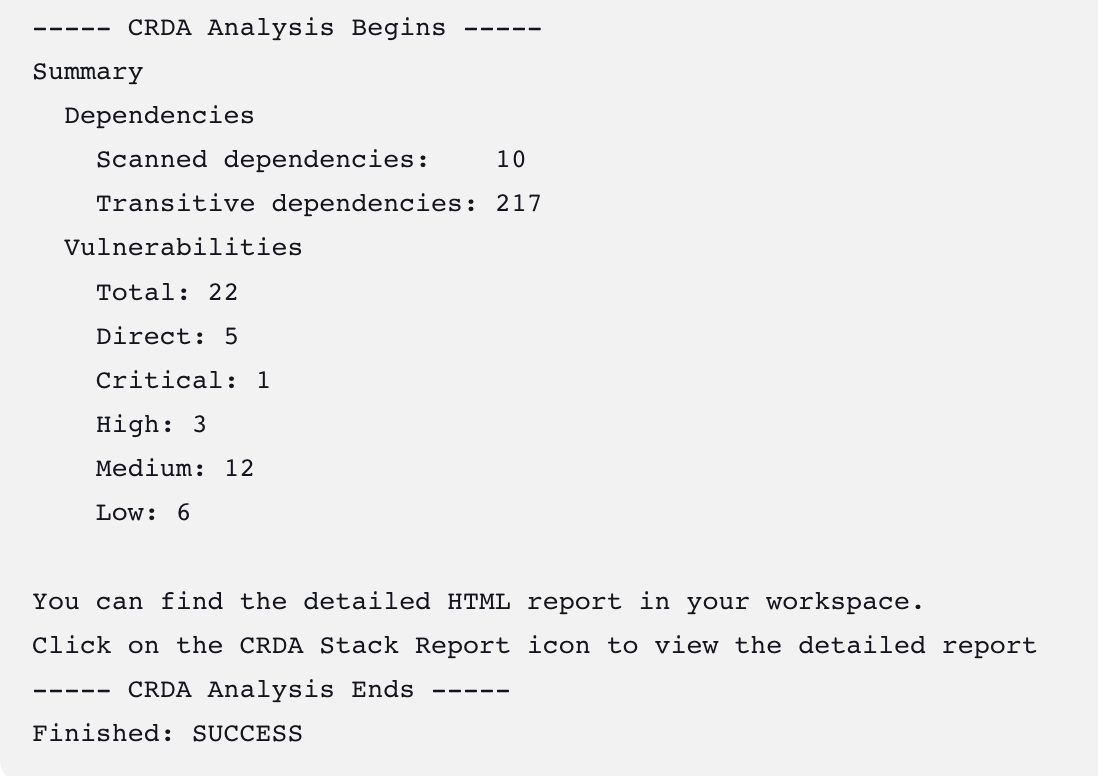
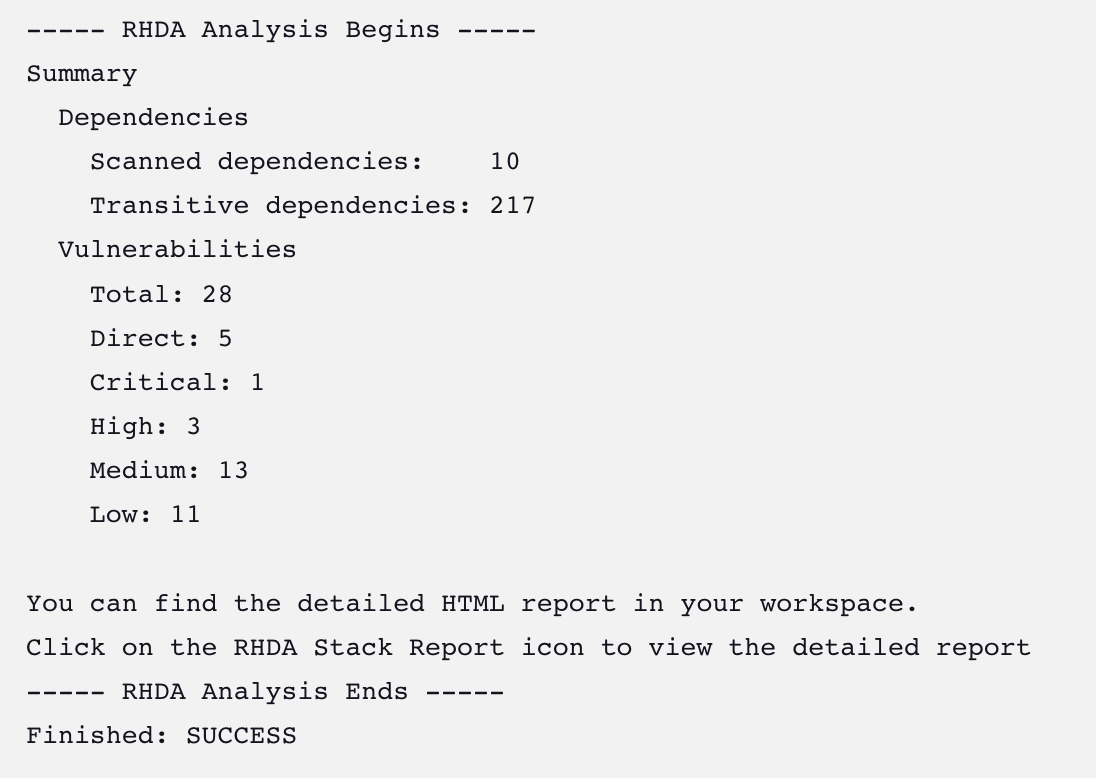
Reverting back to single source and changing the name to RHDA.

diff --git a/src/main/resources/redhat/jenkins/plugins/crda/credentials/DefaultCRDAKey/help-key.html b/src/main/resources/redhat/jenkins/plugins/crda/credentials/DefaultCRDAKey/help-key.html
@@ -1,4 +1,4 @@
 <div>
-  You must get your crda token in order to run the analysis. You can get it via 
-  <a href="https://github.com/fabric8-analytics/cli-tools/releases">CRDA CLI</a> .
+  You must get your rhda token in order to run the analysis. You can get it via
+  <a href="https://github.com/fabric8-analytics/cli-tools/releases">RHDA CLI</a> .
 </div>

diff --git a/src/main/java/redhat/jenkins/plugins/crda/step/CRDAStep.java b/src/main/java/redhat/jenkins/plugins/crda/step/CRDAStep.java
@@ -16,7 +16,6 @@
 
 package redhat.jenkins.plugins.crda.step;
 
-import com.redhat.exhort.Api;
 import com.redhat.exhort.api.AnalysisReport;
 import com.redhat.exhort.api.DependenciesSummary;
 import com.redhat.exhort.api.VulnerabilitiesSummary;
@@ -45,7 +44,6 @@ import javax.servlet.ServletException;
 import java.io.File;
 import java.io.IOException;
 import java.io.PrintStream;
-import java.math.BigDecimal;
 import java.util.Arrays;
 import java.util.Collections;
 import java.util.HashSet;
@@ -146,16 +144,16 @@ public final class CRDAStep extends Step {
 
             crdaUuid = Utils.getCRDACredential(step.crdaKeyId);
             if (crdaUuid == null) {
-                logger.println("CRDA Key id '" + step.crdaKeyId + "' was not found in the credentials. Please configure the build properly and retry.");
+                logger.println("RHDA Key id '" + step.crdaKeyId + "' was not found in the credentials. Please configure the build properly and retry.");
                 return Config.EXIT_FAILED;
             }
 
             if(crdaUuid.equals("")) {
-                logger.println("CRDA Key id '" + step.crdaKeyId + "' was not found in the credentials. Please configure the build properly and retry.");
+                logger.println("RHDA Key id '" + step.crdaKeyId + "' was not found in the credentials. Please configure the build properly and retry.");
                 return Config.EXIT_FAILED;
             }
 
-            System.setProperty("CRDA_SNYK_TOKEN", crdaUuid);
+            System.setProperty("EXHORT_SNYK_TOKEN", crdaUuid);
             System.setProperty("hudson.model.DirectoryBrowserSupport.CSP", "");
 
             // to get build directory
@@ -168,16 +166,26 @@ public final class CRDAStep extends Step {
 
             // instantiate the Crda API implementation
             var exhortApi = new ExhortApi();
-            CompletableFuture<Api.MixedReport> mixedStackReport = exhortApi.stackAnalysisMixed(manifestPath.toString());
+            // TODO: Enable for the SP.
+//            CompletableFuture<Api.MixedReport> mixedStackReport = exhortApi.stackAnalysisMixed(manifestPath.toString());
 
+            // get a byte array future holding a html report
+            CompletableFuture<byte[]> htmlReport = exhortApi.stackAnalysisHtml(manifestPath.toString());
+
+            // get a AnalysisReport future holding a deserialized report
+            CompletableFuture<AnalysisReport> analysisReport = exhortApi.stackAnalysis(manifestPath.toString());
+//
             try {
 
-                processReport(mixedStackReport.get().json, listener);
-                saveHtmlReport(mixedStackReport.get().html, listener, workspace);
-                logger.println("Click on the CRDA Stack Report icon to view the detailed report");
-                logger.println("----- CRDA Analysis Ends -----");
-                run.addAction(new CRDAAction(crdaUuid, mixedStackReport.get().json, workspace + "/dependency-analysis-report.html"));
-                return mixedStackReport.get().json.getSummary().getVulnerabilities().getTotal().compareTo(BigDecimal.ZERO) == 0 ? Config.EXIT_SUCCESS : Config.EXIT_VULNERABLE;
+                processReport(analysisReport.get(), listener);
+                saveHtmlReport(htmlReport.get(), listener, workspace);
+                logger.println("Click on the RHDA Stack Report icon to view the detailed report");
+                logger.println("----- RHDA Analysis Ends -----");
+                run.addAction(new CRDAAction(crdaUuid, analysisReport.get(), workspace + "/dependency-analysis-report.html"));
+                return (analysisReport.get().getSummary().getVulnerabilities().getTotal()).intValue() == 0 ? Config.EXIT_SUCCESS : Config.EXIT_VULNERABLE;
+//              // TODO: Enable for the SP.
+//                run.addAction(new CRDAAction(crdaUuid, mixedStackReport.get().json, workspace + "/dependency-analysis-report.html"));
+//                return mixedStackReport.get().json.getSummary().getVulnerabilities().getTotal().compareTo(BigDecimal.ZERO) == 0 ? Config.EXIT_SUCCESS : Config.EXIT_VULNERABLE;
             } catch (InterruptedException e) {
                 e.printStackTrace();
             } catch (ExecutionException e) {

diff --git a/src/main/java/redhat/jenkins/plugins/crda/task/CRDABuilder.java b/src/main/java/redhat/jenkins/plugins/crda/task/CRDABuilder.java
@@ -18,7 +18,6 @@ package redhat.jenkins.plugins.crda.task;
 
 import com.cloudbees.plugins.credentials.CredentialsProvider;
 import com.cloudbees.plugins.credentials.common.StandardListBoxModel;
-import com.redhat.exhort.Api;
 import com.redhat.exhort.api.AnalysisReport;
 import com.redhat.exhort.api.DependenciesSummary;
 import com.redhat.exhort.api.VulnerabilitiesSummary;
@@ -101,7 +100,7 @@ public class CRDABuilder extends Builder implements SimpleBuildStep, Serializabl
     @Override
     public void perform(Run<?, ?> run, FilePath workspace, EnvVars env, Launcher launcher, TaskListener listener) throws IOException, InterruptedException {
         PrintStream logger = listener.getLogger();
-        logger.println("----- CRDA Analysis Begins -----");
+        logger.println("----- RHDA Analysis Begins -----");
         String crdaUuid = Utils.getCRDACredential(this.getCrdaKeyId());
 
         EnvVars envVars = getEnvVars(run, listener);
@@ -131,14 +130,24 @@ public class CRDABuilder extends Builder implements SimpleBuildStep, Serializabl
         // get a AnalysisReport future holding a mixed report object aggregating:
         // - (json) deserialized Stack Analysis report
         // - (html) html Stack Analysis report
-        CompletableFuture<Api.MixedReport> mixedStackReport = exhortApi.stackAnalysisMixed(manifestPath.toString());
+        // TODO: Enable for the SP.
+//        CompletableFuture<Api.MixedReport> mixedStackReport = exhortApi.stackAnalysisMixed(manifestPath.toString());
 
+        // get a byte array future holding a html report
+        CompletableFuture<byte[]> htmlReport = exhortApi.stackAnalysisHtml(manifestPath.toString());
+
+        // get a AnalysisReport future holding a deserialized report
+        CompletableFuture<AnalysisReport> analysisReport = exhortApi.stackAnalysis(manifestPath.toString());
         try {
-            processReport(mixedStackReport.get().json, listener);
-            saveHtmlReport(mixedStackReport.get().html, listener, workspace);
-            logger.println("Click on the CRDA Stack Report icon to view the detailed report");
-            logger.println("----- CRDA Analysis Ends -----");
-            run.addAction(new CRDAAction(crdaUuid, mixedStackReport.get().json, workspace + "/dependency-analysis-report.html"));
+            processReport(analysisReport.get(), listener);
+            saveHtmlReport(htmlReport.get(), listener, workspace);
+            // TODO: Enable for the SP.
+//            processReport(mixedStackReport.get().json, listener);
+//            saveHtmlReport(mixedStackReport.get().html, listener, workspace);
+            logger.println("Click on the RHDA Stack Report icon to view the detailed report");
+            logger.println("----- RHDA Analysis Ends -----");
+            // Change analysisReport.get() to mixedStackReport.get().json for SP
+            run.addAction(new CRDAAction(crdaUuid, analysisReport.get(), workspace + "/dependency-analysis-report.html"));
         } catch (ExecutionException e) {
             logger.println("error");
             e.printStackTrace(logger);

diff --git a/src/main/java/redhat/jenkins/plugins/crda/credentials/DefaultCRDAKey.java b/src/main/java/redhat/jenkins/plugins/crda/credentials/DefaultCRDAKey.java
@@ -49,7 +49,7 @@ public class DefaultCRDAKey extends BaseStandardCredentials implements CRDAKey{
 	  @Nonnull
 	  @Override
 	  public String getDisplayName() {
-	    return "CRDA Key";
+	    return "RHDA Key";
 	  }
 	}
 

diff --git a/src/main/java/redhat/jenkins/plugins/crda/action/CRDAAction.java b/src/main/java/redhat/jenkins/plugins/crda/action/CRDAAction.java
@@ -67,7 +67,7 @@ public class CRDAAction implements RunAction2 {
 
     @Override
     public String getDisplayName() {
-        return "CRDA Stack Report";
+        return "RHDA Stack Report";
     }
 
     @Override

diff --git a/README.md b/README.md
@@ -5,24 +5,24 @@
 - [Introduction](#red-hat-codeready-dependency-analysis)
 - [How To Use The Plugin](#how-to-use-the-plugin)
   - [Admin Steps](#admin-steps)
-    - [Generate CRDA Key](#1-generate-crda-key)
+    - [Generate RHDA Key](#1-generate-crda-key)
     - [Install The Plugin](#2-install-the-redhat-codeready-dependency-analysis-jenkins-plugin)
-    - [CRDA Credentials](#3-crda-credentials)
+    - [RHDA Credentials](#3-crda-credentials)
     - [Configuration](#4-configuration)
       - [1. Build Step](#option-i--as-a-build-step)
       - [2. Pipeline Task](#option-ii--as-a-pipeline-task)
 - [Results](#results)
   - [1. Console Output](#1-console-output)
-  - [2. CRDA Stack Report](#2-crda-stack-report)
-  - [3. Detailed CRDA Stack Report](#3-detailed-crda-stack-report)
+  - [2. RHDA Stack Report](#2-crda-stack-report)
+  - [3. Detailed RHDA Stack Report](#3-detailed-crda-stack-report)
 - [Snyk Registration](#snyk-registration)
   - [1. Via CLI](#1-via-cli)
-  - [2. Via CRDA Stack Report UI](#2-via-crda-stack-report-ui)
+  - [2. Via RHDA Stack Report UI](#2-via-crda-stack-report-ui)
 
-# Red Hat Codeready Dependency Analysis
-Red Hat codeready dependency analysis is a jenkins plugin developed by **Red Hat Inc**. CRDA (codeready dependency analytics) is powered by **Snyk Intel Vulnerability DB**, which is the most advanced and accurate open source vulnerability database in the industry. It adds value with the latest, fastest and more number of vulnerabilities derived from numerous sources.
+# Red Hat Dependency Analytics
+Red Hat dependency analysis is a jenkins plugin developed by **Red Hat Inc**. RHDA (red hat dependency analytics) is powered by **Snyk Intel Vulnerability DB**, which is the most advanced and accurate open source vulnerability database in the industry. It adds value with the latest, fastest and more number of vulnerabilities derived from numerous sources.
 
-'CRDA Report' with Insights about your application dependencies:
+'RHDA Report' with Insights about your application dependencies:
 - Flags a security vulnerability(CVE) and suggests a remedial version
 - Shows Github popularity metrics along with latest version
 - Suggests a project level license, check for conflicts between dependency licences
@@ -32,19 +32,19 @@ The plugin can be used in jenkins as a pipeline task or as a build step.
 
 ## How to use the plugin
 ### Admin Steps
-### 1. Generate CRDA Key
-- Download the CRDA CLI tool on your system. Click [here](https://github.com/fabric8-analytics/cli-tools/releases "here") to download.
+### 1. Generate RHDA Key
+- Download the RHDA CLI tool on your system. Click [here](https://github.com/fabric8-analytics/cli-tools/releases "here") to download.
 - Follow the instructions for the installation and run `crda auth` command to generate the crda key. Copy this key.
 
 ### 2. Install the redhat-codeready-dependency-analysis jenkins plugin
 - Goto the jenkins dashboard -> Manage Jenkins -> Manage Plugins.
 - Seach for `redhat-codeready-dependency-analysis` and install.
 
-### 3. CRDA credentials
+### 3. RHDA credentials
 - Goto jenkins dashboard -> Manage Jenkins -> Manage Credentials. Select the global domain -> Add Credentials.
-- Select the option `CRDA Key` in the Kind option.
+- Select the option `RHDA Key` in the Kind option.
 - Let the scope be global.
-- Enter a valid CRDA Key which was generated via the crda auth command using the CRDA CLI.
+- Enter a valid RHDA Key which was generated via the crda auth command using the RHDA CLI.
 - Let the ID field blank. Jenkins will generate the ID. You can also provide an id of your own if you wish to.
 - Give some description for the identification of the credentials.
 ![](./images/credentialsScreen.png)
@@ -55,16 +55,16 @@ Make sure that the Path is updated to point to the corresponding executables, li
 <p>
 There is a way to set a custom Maven path using <em>Environment Variables</em>. 
 - Click on Manage Jenkins -> System. Scroll down to Global properties/Environment Variables.
-- Set Name: CRDA_MVN_PATH and Value: /path/to/custom/mvn.
+- Set Name: EXHORT_MVN_PATH and Value: /path/to/custom/mvn.
 
 #### Option I- As a build step
-- Click on Configure -> Build Trigger -> Add Build Step. Select `Invoke Red Hat Codeready Dependency Analysis (CRDA)`.
+- Click on Configure -> Build Trigger -> Add Build Step. Select `Invoke Red Hat Codeready Dependency Analysis (RHDA)`.
 - Filepath (Mandatory): Provide the filepath for the manifest file. We currently support the following
 	- Maven: pom.xml
 	- Python: requirements.txt
 	- Npm: package.json
 	- Golang: go.mod
-- CRDA Key (Mandatory): The Id generated by jenkins from the step 3. You also have an option to create a new key/id if you have access to it.
+- RHDA Key (Mandatory): The Id generated by jenkins from the step 3. You also have an option to create a new key/id if you have access to it.
 - Usage Statistics (Optional): Consent given to red hat to collect some usage statistics to improve the plugin and report. Default consent is false.
 ![](./images/configOption1.png)
   
@@ -85,25 +85,21 @@ There are a total 3 ways to view the results of the analysis.
 This provides the count and types of vulnerabilities found in the dependency stack. This data is generated for every build and can be viewed in the corresponding console log. It also provides a link to the detailed report.
 ![](./images/consoleOutput.png)
 
-### 2. CRDA Stack Report
+### 2. RHDA Stack Report
 After every successful analysis, you can find a new icon added in the left panel named
-`CRDA Stack Report` . Click on this icon to view the report in graphical form. Here too, we provide a button to redirect to the detailed stack report UI.
-![Screenshot from 2021-04-12 16-51-30](https://user-images.githubusercontent.com/37098367/114390156-83588580-9bb3-11eb-8b3c-7f82e48a5747.png)
+`RHDA Stack Report` . Click on this icon to view the report in graphical form. Here too, we provide a button to redirect to the detailed stack report UI.
+![](./images/stackReport.png)
 
-### 3. Detailed CRDA Stack Report
+### 3. Detailed RHDA Stack Report
 The stack report can be accessed via 2 ways, as mentioned in point number 1 (via url) and 2 (via button click). The report provides comprehensive details about each vulnerability, each dependency in the stack along with the license analysis and the recommended companions.
-![crda](https://user-images.githubusercontent.com/37098367/114390401-d6cad380-9bb3-11eb-823d-bd4111ed3fbe.gif)
+![](./images/detailedStackReport.png)
 
 ## Snyk Registration
 There are 2 ways to register with Snyk
-### 1. Via CLI
+
+### 1. Via SNYK website
+
+https://docs.snyk.io/getting-started/quickstart/create-a-snyk-account
+
+### 2. Via CLI
 If you have a Snyk token, then the same can be used at the time of `crda auth` cli command execution by providing the snyk token.
-
-### 2. Via CRDA Stack Report UI
-Follow the 2 steps shown below to generate a snyk token and provide it in the appropriate place in the stack report.
-
-**Step1**
-![snyk-sign-up](https://user-images.githubusercontent.com/37098367/114044101-86e2c880-98a4-11eb-83db-5e1e07bbae15.gif)
-
-**Step2**
-![snyk-token](https://user-images.githubusercontent.com/37098367/114044134-8f3b0380-98a4-11eb-84c0-70809a3cccc3.gif)
